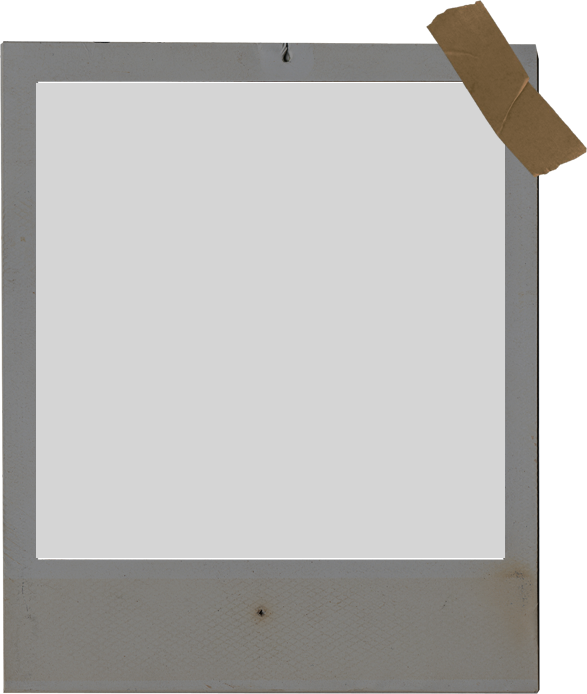
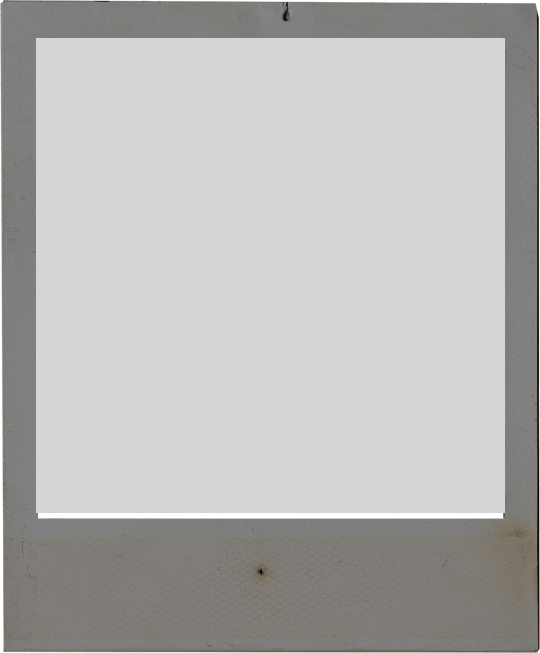
Added galary photos

Changed region(s): [[0.0, 0.0, 1.0, 1.0], [0.4444, 0.8576, 0.5037, 0.8882]]

diff --git a/source/html/galery.html b/source/html/galery.html
@@ -42,6 +42,246 @@
 				<div class="item__description_text">Американский серийный убийца, насильник, похититель людей, каннибал и некрофил, действовавший в 1970-е годы. Его жертвами становились молодые девушки. Точное число его жертв неизвестно. Незадолго до своей казни он признался в 36 убийствах.</div>
 			</div>
 		</div>
+
+		<div class="item">
+			<div class="item__picture">
+				<img src="../../resources/png/Galery/Picture.png" class="item__pic">
+				<img src="../../resources/png/Galery/Murder1.png" class="item__pic__inner">
+				<div class="item__picture__caption">Гэри Риджуэй</div>
+			</div>	
+			<div class="item__description">
+				<img src="../../resources/png/Galery/Letter.png" class="item__description__pic">
+				<div class="item__description_text">"Убийца с Грин-Ривер" в 1980-1990-х годах задушил по меньшей мере 71 женщину. Был арестован после того как следствие смогло доказать с помощью ДНК-анализа его связь с найденными трупами. Излюбленный способ убийства – удушение. Арестован в 1997 году.</div>
+			</div>
+		</div>
+
+		<div class="item">
+			<div class="item__picture">
+				<img src="../../resources/png/Galery/Picture.png" class="item__pic">
+				<img src="../../resources/png/Galery/Murder2.png" class="item__pic__inner">
+				<div class="item__picture__caption">Джон Гейси</div>
+			</div>	
+			<div class="item__description">
+				<img src="../../resources/png/Galery/Letter.png" class="item__description__pic">
+				<div class="item__description_text">Сложно представить более жуткого персонажа, чем знаменитый «Клоун-убийца» Джон Уэйн Гейси. Он получил свое прозвище, поскольку выступал на детских праздниках в роли клоуна Пого. Гейси был признан виновным в изнасиловании, пытках и убийстве 33 мальчиков и подростков.</div>
+			</div>
+		</div>
+
+		<div class="item">
+			<div class="item__picture">
+				<img src="../../resources/png/Galery/Picture.png" class="item__pic">
+				<img src="../../resources/png/Galery/Murder3.png" class="item__pic__inner">
+				<div class="item__picture__caption">Андрей Чикатило</div>
+			</div>	
+			<div class="item__description">
+				<img src="../../resources/png/Galery/Letter.png" class="item__description__pic">
+				<div class="item__description_text">Советский серийный убийца по прозвищу Ростовский мясник, Красный потрошитель и Ростовский потрошитель, который в период с 1978 по 1990 год изнасиловал, убил и искалечил по меньшей мере пятьдесят две женщины и ребенка в Российской ССР, Украинской ССР и Узбекской ССР.</div>
+			</div>
+		</div>
+
+		<div class="item">
+			<div class="item__picture">
+				<img src="../../resources/png/Galery/Picture.png" class="item__pic">
+				<img src="../../resources/png/Galery/Murder4.png" class="item__pic__inner">
+				<div class="item__picture__caption">Альберт Фиш</div>
+			</div>	
+			<div class="item__description">
+				<img src="../../resources/png/Galery/Letter.png" class="item__description__pic">
+				<div class="item__description_text">Один из самых жестоких маньяков в истории. Он убивал только детей и подростков, перед смертью насилуя и жестоко мучая их и поедая их плоть. А потом, уже будучи в тюрьме, Фиш писал письма родителям своих жертв, подробно расписывая, что именно он творил с детьми и как они умирали в мучениях.</div>
+			</div>
+		</div>
+
+		<div class="item">
+			<div class="item__picture">
+				<img src="../../resources/png/Galery/Picture.png" class="item__pic">
+				<img src="../../resources/png/Galery/Murder5.png" class="item__pic__inner">
+				<div class="item__picture__caption">Михаил Попков</div>
+			</div>	
+			<div class="item__description">
+				<img src="../../resources/png/Galery/Letter.png" class="item__description__pic">
+				<div class="item__description_text">Российский серийный убийца и насильник. В период с 1992 по 2010 год совершил 80 доказанных убийств в Иркутской области, главным образом в Ангарске и его окрестностях: его жертвами стали 79 женщин и милиционер. Михаил Попков был младшим лейтенантом МВД РФ.</div>
+			</div>
+		</div>
+
+		<div class="item">
+			<div class="item__picture">
+				<img src="../../resources/png/Galery/Picture.png" class="item__pic">
+				<img src="../../resources/png/Galery/Murder6.png" class="item__pic__inner">
+				<div class="item__picture__caption">Сергей Головкин</div>
+			</div>	
+			<div class="item__description">
+				<img src="../../resources/png/Galery/Letter.png" class="item__description__pic">
+				<div class="item__description_text">Советский и российский серийный убийца и педофил, жертвами которого по материалам суда стали 11 мальчиков и юношей в период с 1986 по 1992 годы. Свое прозвище получил от известного шахматиста Бобби Фишера, это прозвище сказал один из детей, на которых он нападал.</div>
+			</div>
+		</div>
+
+		<div class="item">
+			<div class="item__picture">
+				<img src="../../resources/png/Galery/Picture.png" class="item__pic">
+				<img src="../../resources/png/Galery/Murder7.png" class="item__pic__inner">
+				<div class="item__picture__caption">Анатолий Сливко</div>
+			</div>	
+			<div class="item__description">
+				<img src="../../resources/png/Galery/Letter.png" class="item__description__pic">
+				<div class="item__description_text">Советский серийный убийца и педофил, действовавший в городе Невинномысске Ставропольского края. Сливко руководил туристическим клубом «Чергид», в котором водил школьников в походы, и имел звание заслуженного учителя.</div>
+			</div>
+		</div>
+
+		<div class="item">
+			<div class="item__picture">
+				<img src="../../resources/png/Galery/Picture.png" class="item__pic">
+				<img src="../../resources/png/Galery/Murder8.png" class="item__pic__inner">
+				<div class="item__picture__caption">Ахмад Сураджи</div>
+			</div>	
+			<div class="item__description">
+				<img src="../../resources/png/Galery/Letter.png" class="item__description__pic">
+				<div class="item__description_text">Народный целитель из Индонезии, которому однажды приснился сон о том, что он должен собрать слюну 100 женщин и выпить ее, чтобы получить силу Бога. Таким образом Ахмад убил и закопал у себя на заднем дворе 42 женщины возрастом от 16 до 30 лет, которых позже нашли.</div>
+			</div>
+		</div>
+
+		<div class="item">
+			<div class="item__picture">
+				<img src="../../resources/png/Galery/Picture.png" class="item__pic">
+				<img src="../../resources/png/Galery/Murder9.png" class="item__pic__inner">
+				<div class="item__picture__caption">Джеффри Дамер</div>
+			</div>	
+			<div class="item__description">
+				<img src="../../resources/png/Galery/Letter.png" class="item__description__pic">
+				<div class="item__description_text">Американский серийный убийца, каннибал и насильник, жертвами которого стали 17 юношей и мужчин в период между 1978 и 1991 годами. Все преступления, кроме одного, были совершены в Милуоки с 1987 по 1991 год.</div>
+			</div>
+		</div>
+
+		<div class="item">
+			<div class="item__picture">
+				<img src="../../resources/png/Galery/Picture.png" class="item__pic">
+				<img src="../../resources/png/Galery/Murder10.png" class="item__pic__inner">
+				<div class="item__picture__caption">Ричард Рамирес</div>
+			</div>	
+			<div class="item__description">
+				<img src="../../resources/png/Galery/Letter.png" class="item__description__pic">
+				<div class="item__description_text">Осуждённый американский серийный убийца латиноамериканского происхождения. Известен также как «Ночной охотник». На счету Рамиреса почти два десятка человеческих жертв. Убивал исключительно ради чувства власти над людьми.</div>
+			</div>
+		</div>
+
+		<div class="item">
+			<div class="item__picture">
+				<img src="../../resources/png/Galery/Picture.png" class="item__pic">
+				<img src="../../resources/png/Galery/Murder11.png" class="item__pic__inner">
+				<div class="item__picture__caption">Александр Пичушкин</div>
+			</div>	
+			<div class="item__description">
+				<img src="../../resources/png/Galery/Letter.png" class="item__description__pic">
+				<div class="item__description_text">Российский серийный убийца, известный как «Битцевский маньяк» и «Убийца с шахматной доской». Совершил не менее 49 убийств в московском Битцевском парке и его окрестностях; большинство жертв убивал ударами молотка по голове. Мечтал убить столько же человек, сколько клеток на шахматной доске.</div>
+			</div>
+		</div>
+
+		<div class="item">
+			<div class="item__picture">
+				<img src="../../resources/png/Galery/Picture.png" class="item__pic">
+				<img src="../../resources/png/Galery/Murder12.png" class="item__pic__inner">
+				<div class="item__picture__caption">Джон Гейси</div>
+			</div>	
+			<div class="item__description">
+				<img src="../../resources/png/Galery/Letter.png" class="item__description__pic">
+				<div class="item__description_text">Сложно представить более жуткого персонажа, чем знаменитый «Клоун-убийца» Джон Уэйн Гейси. Он получил свое прозвище, поскольку выступал на детских праздниках в роли клоуна Пого. Гейси был признан виновным в изнасиловании, пытках и убийстве 33 мальчиков и подростков.</div>
+			</div>
+		</div>
+
+		<div class="item">
+			<div class="item__picture">
+				<img src="../../resources/png/Galery/Picture.png" class="item__pic">
+				<img src="../../resources/png/Galery/Murder13.png" class="item__pic__inner">
+				<div class="item__picture__caption">Андрей Чикатило</div>
+			</div>	
+			<div class="item__description">
+				<img src="../../resources/png/Galery/Letter.png" class="item__description__pic">
+				<div class="item__description_text">Советский серийный убийца по прозвищу Ростовский мясник, Красный потрошитель и Ростовский потрошитель, который в период с 1978 по 1990 год изнасиловал, убил и искалечил по меньшей мере пятьдесят две женщины и ребенка в Российской ССР, Украинской ССР и Узбекской ССР.</div>
+			</div>
+		</div>
+
+		<div class="item">
+			<div class="item__picture">
+				<img src="../../resources/png/Galery/Picture.png" class="item__pic">
+				<img src="../../resources/png/Galery/Murder14.png" class="item__pic__inner">
+				<div class="item__picture__caption">Альберт Фиш</div>
+			</div>	
+			<div class="item__description">
+				<img src="../../resources/png/Galery/Letter.png" class="item__description__pic">
+				<div class="item__description_text">Один из самых жестоких маньяков в истории. Он убивал только детей и подростков, перед смертью насилуя и жестоко мучая их и поедая их плоть. А потом, уже будучи в тюрьме, Фиш писал письма родителям своих жертв, подробно расписывая, что именно он творил с детьми и как они умирали в мучениях.</div>
+			</div>
+		</div>
+
+		<div class="item">
+			<div class="item__picture">
+				<img src="../../resources/png/Galery/Picture.png" class="item__pic">
+				<img src="../../resources/png/Galery/Murder15.png" class="item__pic__inner">
+				<div class="item__picture__caption">Михаил Попков</div>
+			</div>	
+			<div class="item__description">
+				<img src="../../resources/png/Galery/Letter.png" class="item__description__pic">
+				<div class="item__description_text">Российский серийный убийца и насильник. В период с 1992 по 2010 год совершил 80 доказанных убийств в Иркутской области, главным образом в Ангарске и его окрестностях: его жертвами стали 79 женщин и милиционер. Михаил Попков был младшим лейтенантом МВД РФ.</div>
+			</div>
+		</div>
+
+		<div class="item">
+			<div class="item__picture">
+				<img src="../../resources/png/Galery/Picture.png" class="item__pic">
+				<img src="../../resources/png/Galery/Murder16.png" class="item__pic__inner">
+				<div class="item__picture__caption">Сергей Головкин</div>
+			</div>	
+			<div class="item__description">
+				<img src="../../resources/png/Galery/Letter.png" class="item__description__pic">
+				<div class="item__description_text">Советский и российский серийный убийца и педофил, жертвами которого по материалам суда стали 11 мальчиков и юношей в период с 1986 по 1992 годы. Свое прозвище получил от известного шахматиста Бобби Фишера, это прозвище сказал один из детей, на которых он нападал.</div>
+			</div>
+		</div>
+
+		<div class="item">
+			<div class="item__picture">
+				<img src="../../resources/png/Galery/Picture.png" class="item__pic">
+				<img src="../../resources/png/Galery/Murder17.png" class="item__pic__inner">
+				<div class="item__picture__caption">Анатолий Сливко</div>
+			</div>	
+			<div class="item__description">
+				<img src="../../resources/png/Galery/Letter.png" class="item__description__pic">
+				<div class="item__description_text">Советский серийный убийца и педофил, действовавший в городе Невинномысске Ставропольского края. Сливко руководил туристическим клубом «Чергид», в котором водил школьников в походы, и имел звание заслуженного учителя.</div>
+			</div>
+		</div>
+
+		<div class="item">
+			<div class="item__picture">
+				<img src="../../resources/png/Galery/Picture.png" class="item__pic">
+				<img src="../../resources/png/Galery/Murder18.png" class="item__pic__inner">
+				<div class="item__picture__caption">Ахмад Сураджи</div>
+			</div>	
+			<div class="item__description">
+				<img src="../../resources/png/Galery/Letter.png" class="item__description__pic">
+				<div class="item__description_text">Народный целитель из Индонезии, которому однажды приснился сон о том, что он должен собрать слюну 100 женщин и выпить ее, чтобы получить силу Бога. Таким образом Ахмад убил и закопал у себя на заднем дворе 42 женщины возрастом от 16 до 30 лет, которых позже нашли.</div>
+			</div>
+		</div>
+
+		<div class="item">
+			<div class="item__picture">
+				<img src="../../resources/png/Galery/Picture.png" class="item__pic">
+				<img src="../../resources/png/Galery/Murder19.png" class="item__pic__inner">
+				<div class="item__picture__caption">Джеффри Дамер</div>
+			</div>	
+			<div class="item__description">
+				<img src="../../resources/png/Galery/Letter.png" class="item__description__pic">
+				<div class="item__description_text">Американский серийный убийца, каннибал и насильник, жертвами которого стали 17 юношей и мужчин в период между 1978 и 1991 годами. Все преступления, кроме одного, были совершены в Милуоки с 1987 по 1991 год.</div>
+			</div>
+		</div>
+
+		<div class="item">
+			<div class="item__picture">
+				<img src="../../resources/png/Galery/Picture.png" class="item__pic">
+				<img src="../../resources/png/Galery/Murder20.png" class="item__pic__inner">
+				<div class="item__picture__caption">Ричард Рамирес</div>
+			</div>	
+			<div class="item__description">
+				<img src="../../resources/png/Galery/Letter.png" class="item__description__pic">
+				<div class="item__description_text">Осуждённый американский серийный убийца латиноамериканского происхождения. Известен также как «Ночной охотник». На счету Рамиреса почти два десятка человеческих жертв. Убивал исключительно ради чувства власти над людьми.</div>
+			</div>
+		</div>
 	</div>
 
 	<script>

diff --git a/source/css/galery.css b/source/css/galery.css
@@ -200,22 +200,24 @@ a
 .item__pic
 {
 	width: 60%;
+	margin-top: 20px;
 }
 
 .item__pic__inner
 {
 	position: absolute;
-	width: 60%;
-	max-width: 200px;
-	top: 13%;
-	left: 33%;
+	width: 80%;
+	max-width: 338px;
+	top: 9.5%;
+	left: 24.1%;
 }
 
 .item__picture__caption
 {
 	position: absolute;
+	width: 380px;
 	top: 80%;
-	left: 35%;
+	left: 21%;
 	font-family: 'Caveat', cursive;
 	font-size: 50px;
 }
@@ -262,17 +264,22 @@ a
 	}
 
 	/* Item */
+	.item__pic
+	{
+		margin-top: 2vw;
+	}
 	.item__pic__inner
 	{
-		max-width: 15vw;
-		top: 5vw;
-		left: 16.6vw;
+		max-width: 26vw;
+		top: 4vw;
+		left: 12vw;
 	}
 
 	.item__picture__caption
 	{
+		width: 30vw;
 		top: 80%;
-		left: 17vw;
+		left: 10vw;
 		font-size: 4vw;
 	}
 

diff --git a/source/html/search.html b/source/html/search.html
@@ -38,6 +38,14 @@
 		<div class="container">
 			<input type="text" size="40" placeholder="Введите название дела">	
 		</div>
+
+		<div class="container">
+			<div class="search__item">
+				<h1>Заголовок</h1>
+				<p>Описание</p>
+				<a>Ссылка</a>
+			</div>
+		</div>
 	</div>
 
 	<script>
@@ -47,5 +55,6 @@
 			document.querySelector('.nav').classList.toggle('open');
 		})
 	</script>
+	<script type="text/javascript" src="../js/parser/parser.js" type="module"></script>
 </body>
 </html>

diff --git a/source/css/search.css b/source/css/search.css
@@ -230,6 +230,17 @@ a
 	color: white;
 }
 
+.search__item
+{
+	width: 100%;
+	max-width: 1200px;
+	margin: 0 auto;
+	background-color: #1a1a1a;
+	color: white;
+}
+
+
+
 @media(max-width: 1200px)
 {
 	.intro
